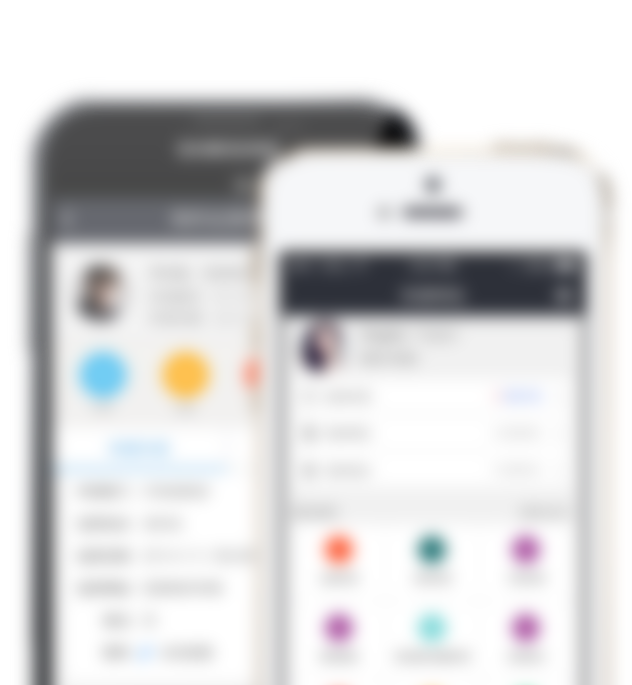
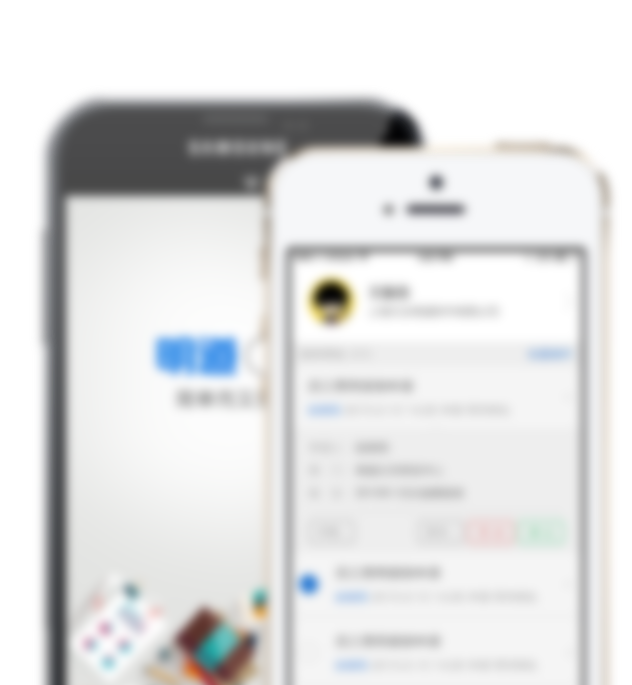
css img

diff --git a/css/appstyle.css b/css/appstyle.css
@@ -20,13 +20,13 @@ body{overflow:hidden;}
 .img{position:absolute;z-index:30;left:50%;width:100%;height:auto;margin-left:-49%;}
 .one .img{width:98%;top:inherit;bottom:-5%;}
 .two .img{width:100%;margin-left:-50%;}
-.three .img{width:80%;left:0;margin:0;bottom: -2%;}
+.three .img{width:90%;left:0;margin:0;}
 .four .img{width:97%;left:-50px;bottom:-50px;filter:alpha(opacity=0);opacity:0;margin:0;}
 .slogan_txt{position: absolute;width:76%;left:50%;margin-left:-38%;top:5%;z-index:990;}
 .slogan_txt span.block{width:100%;}
 .slogan_txt span.block img{width:100%;}
-.two .slogan_txt,.three .slogan_txt{width:70%;margin-left:-35%;top:6%;}
-.four .slogan_txt{top:15%;}
+.two .slogan_txt,.three .slogan_txt{width:80%;margin-left:-40%;top:10%;}
+.four .slogan_txt{top:10%;}
 .img{bottom:0;height:auto;width:100%;}
 .slogan_p1{margin-top:5%;}
 .download{margin-top:25%;}
@@ -60,8 +60,8 @@ a.code .code_img{position: absolute;top:-233px;left:-90px;display:none;}
 .pop_link{position:fixed;width:80%;height:50px;line-height:25px;padding:10px;background:#f27d54;border-radius:4px;top:130px;left:50%;margin-left:-43%;z-index:5000;color:#fff;}
 .pop_link .off{display:block;position:absolute;width:15px;height:15px;line-height:15px;font-size:15px;text-align:center;border:1px solid #fff;border-radius:50%;background:#fff;right: -5px;top: -5px;border:1px solid #347cdc;}
 .animate{transition:0.3s;-webkit-transition:0.3s;}
-
-
+.btn_bottom{height:50px;position:fixed;left:0;bottom:-100px;right:0;background:#000;opacity: 0.8;z-index:200;}
+.btn_bottom a{display:inline-block;width:100px;height:30px;line-height:30px;text-align: center;color:#fff;background:#0065e5;border-radius:3px;margin:10px 10px 0 0;}
 
 
 

diff --git a/js/show.js b/js/show.js
@@ -16,6 +16,7 @@ $(document).ready(function(){
 		startY = startTouch.pageY;
 		var endX=startX;
         $btn = $('.btn');
+		$btn_bottom = $('.btn_bottom');
 		$(this).off('touchmove').on('touchmove',function(){
 //			event.preventDefault();
 			var moveTouch  = event.touches[0];
@@ -51,8 +52,10 @@ $(document).ready(function(){
 			                }
                             if($dot.find('li').eq(0).hasClass('current')){
                                 $btn.fadeIn();
+								$btn_bottom.stop().animate({bottom:-100},400);
                             }else{
                                 $btn.fadeOut();
+								$btn_bottom.stop().animate({bottom:0},700);
                             }
 			            }
 			        }
@@ -78,11 +81,13 @@ $(document).ready(function(){
 		                        'bottom': -50
 		                    }, 800);
 		                }
-                        if($dot.find('li').eq(0).hasClass('current')){
-                            $btn.fadeIn();
-                        }else{
-                            $btn.fadeOut();
-                        }
+						if($dot.find('li').eq(0).hasClass('current')){
+							$btn.fadeIn();
+							$btn_bottom.stop().animate({bottom:-100},400);
+						}else{
+							$btn.fadeOut();
+							$btn_bottom.stop().animate({bottom:0},700);
+						}
 		            }
 		        }
 				}

diff --git a/La.html b/La.html
@@ -13,6 +13,7 @@
 <body>
 <!--主体begin-->
 <a href="#" class="btn">立即下载app</a>
+<div class="btn_bottom alignright"><a href="#">立即下载</a></div>
 <div class="pop_link font14" style="display: none;">
    <a href="javascript:;" class="off">×</a>
    <p>微信暂不支持手机APP下载，请点击右上角的打开浏览器，使用浏览器下载</p>
